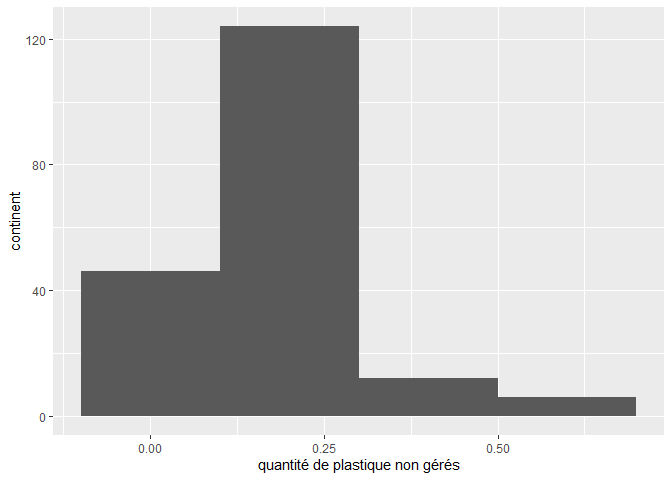
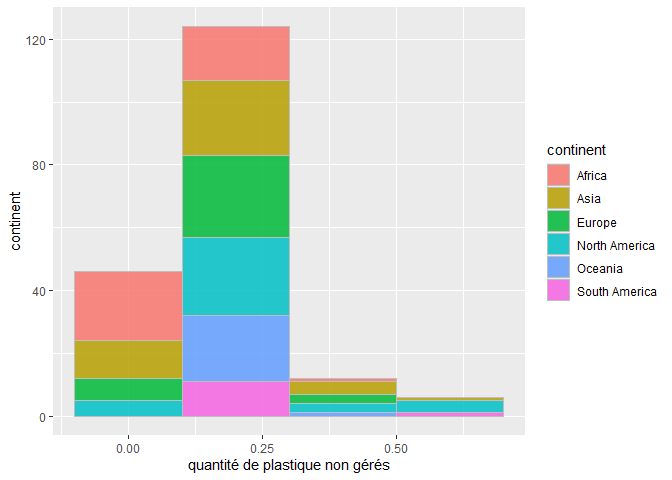
Lab 02 finalisé ave mise en page, Maïa LE SCOUARNEC GONZALEZ

diff --git a/lab-02.md b/lab-02.md
@@ -20,9 +20,9 @@ Trinité et Tobago (TTO) qui est un outlier.
 plastic_waste <- plastic_waste %>%
   filter(plastic_waste_per_cap < 3.5)
   ggplot(data = plastic_waste, 
-         aes(x = plastic_waste_per_cap)) +
-  geom_histogram(binwidth = 0.2)+
-    labs(x= "quantité de plastique non gérés", y = "continent" )
+         aes(x = plastic_waste_per_cap, fill = continent)) +
+  geom_histogram(binwidth = 0.2, alpha = 0.85, color="grey")+
+    labs(x= "quantité de plastique non gérés", y = "continent")
 ```
 
 ![](lab-02_files/figure-gfm/filter-data-1.png)<!-- -->
@@ -32,11 +32,11 @@ plastic_waste <- plastic_waste %>%
 ### Exercise 1
 
 ``` r
-# insert code here
 ggplot(data = plastic_waste,
-       aes(x= plastic_waste_per_cap))+
-  geom_histogram(binwidth = 0.2)+
+       aes(x= plastic_waste_per_cap, fill = continent))+
+  geom_histogram(binwidth = 0.2, alpha = 0.75, color = "grey")+
   labs(x= "quantité de plastique non gérés", y = "continent" )+
+  labs(y="Continent", x= "Déchets plastiques par habitant", title="Quantité de déchet plastiques par habitant en fonction des continents")+
   facet_wrap(~continent)
 ```
 
@@ -50,10 +50,10 @@ quand même une production de plastique inférieur à 0.25 tonnes.
 ### Exercise 2
 
 ``` r
-# insert code here
 ggplot(data = plastic_waste,
        aes(x= plastic_waste_per_cap, color = continent, fill = continent))+
-  geom_density(size= 0.15,alpha= 0.5)
+  geom_density(size= 0.15,alpha= 0.5)+
+  labs(y="Densité", x= "Déchets plastiques paar habitant", title="Densité de déchet plastique par habitant", subtitle = "Selon le continent")
 ```
 
     ## Warning: Using `size` aesthetic for lines was deprecated in ggplot2 3.4.0.
@@ -73,10 +73,10 @@ que toutes les variables soient à la même transparence.
 Boxplot:
 
 ``` r
-# insert code here
 ggplot(data = plastic_waste,
        aes(x= continent, y= plastic_waste_per_cap, color = continent))+
-  geom_boxplot()
+  geom_boxplot()+
+  labs(y="Nombre de déchets plastiques par habitant", x= "Continent", title="Quantité de déchet plastiques par habitant en fonction des continents")
 ```
 
 ![](lab-02_files/figure-gfm/plastic-waste-boxplot-1.png)<!-- -->
@@ -84,10 +84,10 @@ ggplot(data = plastic_waste,
 Violin plot:
 
 ``` r
-# insert code here
 ggplot(data = plastic_waste,
-       aes(x= continent, y= plastic_waste_per_cap, color = continent))+
-  geom_violin()
+       aes(x= continent, y= plastic_waste_per_cap, fill = continent))+
+  geom_violin()+
+  labs(y="Nombre de déchets plastiques par habitant", x= "Continent", title="Quantité de déchet plastiques par habitant en fonction des continents")
 ```
 
 ![](lab-02_files/figure-gfm/plastic-waste-violin-1.png)<!-- -->
@@ -105,10 +105,10 @@ box.
 ### Exercise 4
 
 ``` r
-# insert code here
 ggplot (data= plastic_waste, 
         aes (x= plastic_waste_per_cap, y=mismanaged_plastic_waste_per_cap, color= continent))+
-  geom_point()
+  geom_point()+
+  labs(y="Nombre de déchets plastiques non gérés par habitant", x= "Nombre de déchets plastiques par habitant ", title="Quantité de déchet plastiques non gérés en fonction de la quantité de déchets plastique par habitant", subtitle="Selon le continent" )
 ```
 
 ![](lab-02_files/figure-gfm/plastic-waste-mismanaged-1.png)<!-- -->
@@ -124,10 +124,10 @@ point marron représentant un pays d’Asie)
 ### Exercise 5
 
 ``` r
-# insert code here
 ggplot (data= plastic_waste, 
         aes (x= plastic_waste_per_cap, y=total_pop, color= continent))+
-  geom_point()
+  geom_point()+
+  labs(y="Population total", x= "Nombre de déchets plastiques par habitant ", title="Quantité de déchet plastiques en fonction population ", subtitle="Selon le continent" )
 ```
 
     ## Warning: Removed 10 rows containing missing values or values outside the scale range
@@ -136,10 +136,10 @@ ggplot (data= plastic_waste,
 ![](lab-02_files/figure-gfm/plastic-waste-population-total-1.png)<!-- -->
 
 ``` r
-# insert code here
 ggplot (data= plastic_waste, 
         aes (x= plastic_waste_per_cap, y=coastal_pop, color= continent))+
-  geom_point()
+  geom_point()+
+  labs(y="Population côtière", x= "Nombre de déchets plastiques par habitant ", title="Quantité de déchet plastiques en fonction population côtière", subtitle="Selon le continent" )
 ```
 
 ![](lab-02_files/figure-gfm/plastic-waste-population-coastal-1.png)<!-- -->
@@ -158,5 +158,29 @@ cotiers.
 Recréez la visualisation:
 
 ``` r
-# insert code here
+plastic_waste_coastal <- plastic_waste %>% 
+  mutate(coastal_pop_prop = coastal_pop / total_pop) %>%
+  filter(plastic_waste_per_cap < 3)
+ggplot (data= plastic_waste_coastal, 
+        aes (x= coastal_pop_prop, y=plastic_waste_per_cap,))+
+  geom_smooth( color= "black", size = 1)+
+  geom_point(aes(color= continent))+
+  labs(x="Proportion de la population côtière", y= "Nombre de déchets plastiques par habitant ", title="Quantité de déchet plastiques vs Proportion de la population côtière", subtitle="Selon le continent" )
 ```
+
+    ## `geom_smooth()` using method = 'loess' and formula = 'y ~ x'
+
+    ## Warning: Removed 10 rows containing non-finite outside the scale range
+    ## (`stat_smooth()`).
+
+    ## Warning: Removed 10 rows containing missing values or values outside the scale range
+    ## (`geom_point()`).
+
+![](lab-02_files/figure-gfm/recreate-viz-1.png)<!-- --> On voit que plus
+la population vivant sur les côtes est importante, plus la production de
+plastique est élévé, il y a donc un lien direct entre la démographie et
+la production de déchet plastique. On remarque quand même que certains
+pays se situent en dessous de cette moyenne, ce qui montre un
+comportement consomatif différent et on peut l’obreser aussi avec les
+pays des continents. La majorité des pays africains se trouvent sous la
+tendance alors que ceux de l’Amérique du Nord sont plus au dessus.
